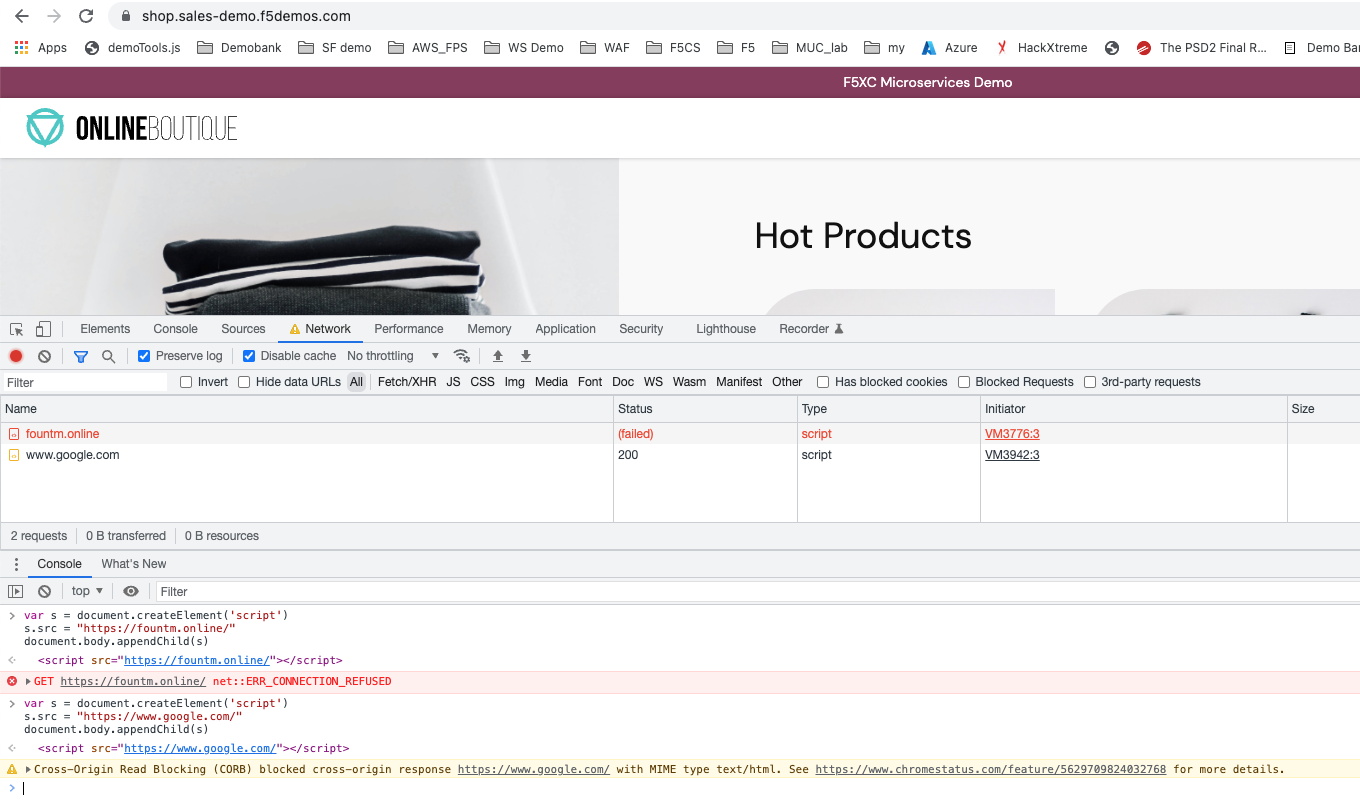
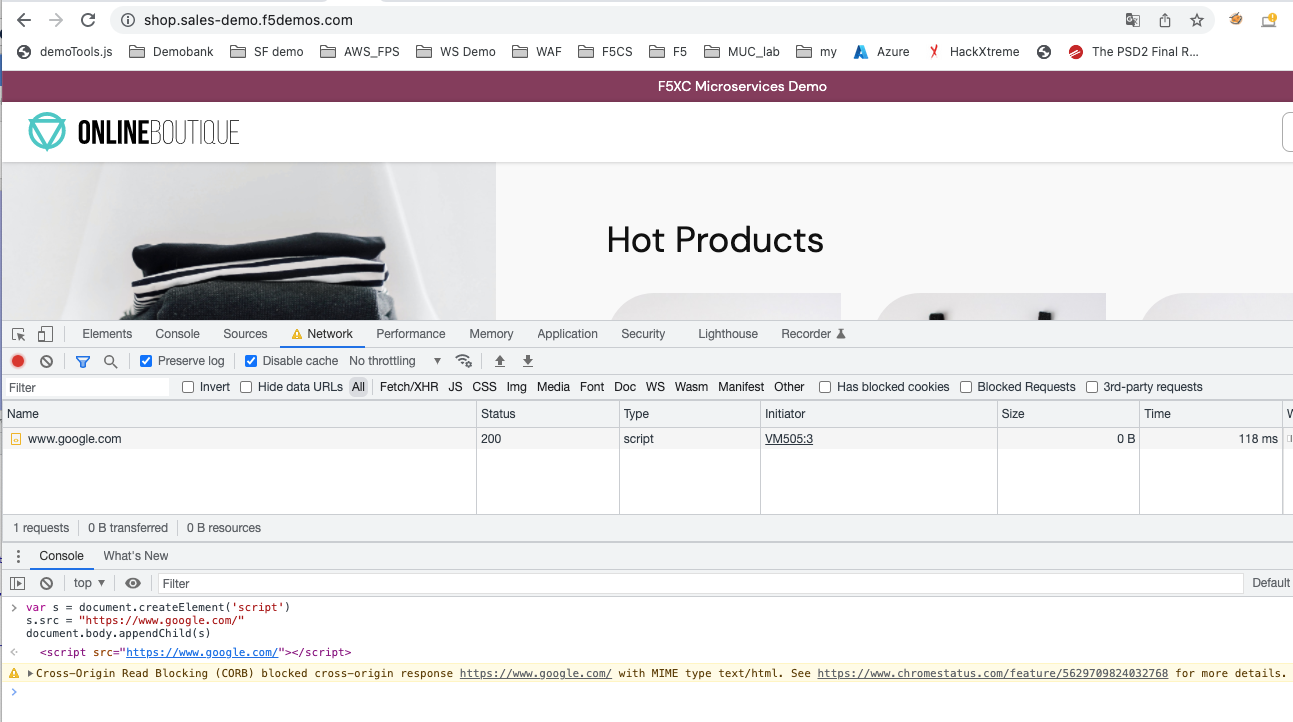
Appendix A and B

diff --git a/csd/lab2.rst b/csd/lab2.rst
@@ -2,18 +2,25 @@ Using the Client Side Defense Dashboard
 =======================================
 
 Lab 2: Mitigate suspicious or allow unsuspicious domains
--------------------------------------------------------------
+--------------------------------------------------------
 
-Login to F5 Distributed Cloud using your own account or f5-sales-demo using the credentials for the read only account from the `f5-sales-demo tenant <https://teams.microsoft.com/l/message/19:45ba7ac2ebb540ecb3b44929aebd7e99@thread.tacv2/1645109960193?tenantId=dd3dfd2f-6a3b-40d1-9be0-bf8327d81c50&groupId=2dc42443-8b46-4694-aa58-defbd3dc8a4b&parentMessageId=1645109960193&teamName=SME-Volterra&channelName=Sales%20Demo%20Tenant%20Ops&createdTime=1645109960193>`_ and go to the Client-Side Defense dashboard.
-I recommend to login to the f5-sales-demo account for the next steps of this lab or generate some artificially injections with suspicious domains which is explained in **appendix A** before you start this lab.
-
-.. image:: ../_static/csd-dashboard.png
+Login to F5 Distributed Cloud using your own account or optional for *F5 SEs*, login into the f5-sales-demo tenant using the credentials for the read only account from the `f5-sales-demo tenant <https://teams.microsoft.com/l/message/19:45ba7ac2ebb540ecb3b44929aebd7e99@thread.tacv2/1645109960193?tenantId=dd3dfd2f-6a3b-40d1-9be0-bf8327d81c50&groupId=2dc42443-8b46-4694-aa58-defbd3dc8a4b&parentMessageId=1645109960193&teamName=SME-Volterra&channelName=Sales%20Demo%20Tenant%20Ops&createdTime=1645109960193>`_ and go to the Client-Side Defense dashboard.
 
 |
 
-The CSD Dashboard displays the following tabs that you use for displaying data, and for deciding whether to mitigate or allow a suspicious domain:
+.. note:: I've generated some artificially injections with suspicious domains for the f5-sales-demo tenant to make demos easier. If you use your own website, you can generate some artificially injections with suspicious domains as explained in **Appendix A** at the end of this document, before you continue this lab.
 
-.. image:: ../_static/csd-tabs.png
+|
+
+Once you logged in, click on *Client-Side Defense*.
+
+ .. image:: ../_static/csd-dashboard.png
+
+|
+
+The CSD Dashboard displays the following tabs that you use for displaying data, and for deciding whether to mitigate or allow a suspicious domain.
+
+ .. image:: ../_static/csd-tabs.png
 
 *Suspicious Domains:* When a web page with CSD protection is loaded on the end-user’s browser, scripts running on that web page interact with other domains. The Suspicious Domains list displays a list of the domains that those scripts interact with and which CSD detected to be potentially malicious.
 
@@ -31,16 +38,16 @@ The CSD Dashboard displays the following tabs that you use for displaying data, 
 
  .. image:: ../_static/csd-suspicious-domains.png
 
- .. note:: You see suspicious domains when you login to the f5-sales-demo tenant but you probably won't see them when you use your own environment with no live traffic. Please see the **appendix A** to generate artificially suspicious domain entries.
+ .. note:: You will see suspicious domains when you login to the *f5-sales-demo* tenant but you probably won't see them when you use your own website with no live traffic. Please see the **Appendix A** at the end of this document to generate artificially suspicious domain entries.
   
 |
 
 2. Adding a domain to the Mitigate List or Allow List
    
- Go to the row of the relevant domain and select the appropriate action on the right by clicking on the three dots. Our example shows how to add the domain jqwereid.online to the Mitigate List. It goes first in the state Added to Mitigated List (green) and change after some time to status Mitigated (blue). 
- Alternatively, you can add domains manually to the Mitigate List or Allow List by going to the Mitigate List or Allow List at the top and, click on Add domain and enter the domain name.
+ Go to the row of the relevant domain and select the appropriate action on the right by clicking on the *three dots*. Our example shows how to add the domain jqwereid.online to the Mitigate List. It goes first in the state Added to Mitigated List (green) and change after some time to status Mitigated (blue). 
+ Alternatively, you can add domains manually to the Mitigate List or Allow List by going to the Mitigate List or Allow List at the top and, click on *Add domain* and enter the domain name.
 
-  .. note:: The monitor user for the f5-sales-com account has read only rights and therefore you can't save your modifications and you will see a 403 forbidden but e.g. the domain fountm-online is already set to mitigated to block requests to this domain which is needed for the next chapter.
+ .. note:: The monitor user for the f5-sales-com account has read only rights and therefore you can't save your modifications and you will see a 403 forbidden but e.g. the domain fountm-online is already set to mitigated to block requests to this domain which is needed for the next chapter.
  
  .. image:: ../_static/csd-mitigate.png
 
@@ -58,7 +65,7 @@ The CSD Dashboard displays the following tabs that you use for displaying data, 
 
 |
 
-3. Show that requests to the mitigated domains are blocked
+3. Show that requests from scripts to the mitigated domains are blocked
  
  Open a browser, go to https://shop.sales-demo.f5demos.com/ and start the browser's DevTools.
 
@@ -68,11 +75,13 @@ The CSD Dashboard displays the following tabs that you use for displaying data, 
    s.src = "https://fountm.online/"
    document.body.appendChild(s)
 
- Press enter and you should see the message  *GET https://fountm.online/ net::ERR_CONNECTION_REFUSED* and the request shows up in the network tab with the *status failed*
+ Press enter and you should see a message like in the screenshot below and no request in the network tab.
 
  .. image:: ../_static/csd-block-susp-domain.png
 
-4. Show that other requests from the browser (script) are still allowed
+|
+
+4. Show that requests from scripts to benign domains are allowed
 
  Copy & paste the following code into the console::
 
@@ -86,9 +95,80 @@ The CSD Dashboard displays the following tabs that you use for displaying data, 
 
 |
 
-5. Appendix - Generate artificially suspicious domains
+Appendix A - Artificially generate suspicious domains
+=====================================================
+
+1. Navigate to a website like https://db.aa419.org/fakebankslist.php to look for fake sites.
+
+ .. note:: **DISCLAIMER:** artists against 419 ("aa419") identifies fraudulent websites and makes this data available as a public service. We discourage any form of communication with these websites. If you chose to communicate with them you do so at your own risk.
+
+2. Use any of the following methods to add the code below to the html code of your testing website.
+
+ - Local overrides in Chrome Developer Tools as described in **Appendix B** at the end of this document.
+ - Local proxy like Charles proxy
+ - Or just add the code to your testing web site but don't foget to remove it after the test.
+
+.. note:: For demoing purposes, we have added already a similar code as shown below to the sales demo app https://shop.sales-demo.f5demos.com/. You can verify it by viewing the source code of the web page.
+
+ You can use the code as shown below with the fake domains or replace the fake domains with the ones you want to use for the test::
+  </script><script>(function(){var s=document.createElement("script");var domains=["ganalitis.com","ganalitics.com","gstatcs.com","webfaset.com","fountm.online","pixupjqes.tech","jqwereid.online"];for (var i=0; i < domains.length; ++i){s.src="https://" + domains[i];}})();</script>
+
+ .. note:: The browser doesn't send a request to the specified domains by adding or injecting the code as shown above.
+
+|
+
+ Example what you should see when you view the source code of the page.
+
+ .. image:: ../_static/csd-view-source-color.png
+
+|
 
 
-</script><script>(function(){var s=document.createElement("script");var domains=["ganalitis.com","ganalitics.com","gstatcs.com","webfaset.com","fountm.online","pixupjqes.tech","jqwereid.online"];for (var i=0; i < domains.length; ++i){s.src="https://" + domains[i];}})();</script>
+Appendix B - Injection using local Overrides in Chrome
+======================================================
 
-https://db.aa419.org/fakebankslist.php
+.. note:: This injection method can be used to inject code locally on your browser. The following example shows you how to inject code to artificially generate suspicious domains but of course you can also inject the CSD JavaScript from your tenant in addition, to test for instance a website you don't own. **The DevTools need to be kept open for the test.**
+
+Set up local Overrides in Chrome DevTools
+-----------------------------------------
+
+#. Open Chrome DevTools.
+#. Click on the *Sources* tab.
+#. Click on the *Overrides* tab.
+#. Click on *Select folder for overrides*.
+
+ .. image:: ../_static/csd-select-folder-overrides.png
+
+|
+
+5. Select which directory you want to save your changes to.
+#. At the top of your window, click **Allow** to give DevTools read and write access to this directory.
+#. Make sure *"Enable Local Overrides"* is checked.
+
+ .. image:: ../_static/csd-select-folder-overrides-selected.png
+
+|
+
+8. Click on the *Network tab*.
+#. Open the page, in this example https://arcadia.emea.f5se.com/
+#. Select the page or a file like index.html that you want to override. In our example "arcadia.emea.f5se.com". Just refresh if you don’t see it in the network tab.
+
+ .. image:: ../_static/csd-select-page.png
+
+|
+
+11. Right click on the code on the right side and select "Save for overrides".
+
+ .. image:: ../_static/csd-save-for-overrides.png
+
+|
+
+#. Make your code changes on the right side.
+ 
+ .. image:: ../_static/csd-add-injection-code.png
+
+|
+
+#. **And make sure you save your changes afterwards e.g. with Ctrl+S or Command+S!**
+
+.. note:: You won't see the overwritten code when you click on *view source code* in the page. If you want to check if the overwrite works, you can e.g. modifiy a title or a text on the page to see the changes on the screen.

diff --git a/csd/start-csd-intro.rst b/csd/start-csd-intro.rst
@@ -9,9 +9,9 @@ Prerequisites
 
 1. An account for F5 Distributed Cloud and a tenant with Client-Side Defense add-on capability provisioned.
 
-2. An application which is accessible via the internet and where you can add the JavaScript the website. Alternativeley you can find instructions how to inject the JavaScript for testing purposes with the Chrome browser.
+2. A website that is accessible via the internet and where you have the rights to add the JavaScript tag. Alternativeley you can find instructions in the Appendix how to inject the JavaScript tag for testing purposes with the Chrome browser.
   
-For *F5 SEs* the JavaScript was already added to the demo application and you can find the detais and login instructions for the f5-sales-demo tenant further down in the lab guide. 
+For *F5 SEs* the JavaScript tag was already added to the demo application and you can find the detais and login instructions for the f5-sales-demo tenant further down in the lab guide. 
 
 You can sign up for a free account for the F5 Distributed Cloud in case you don't have an account yet by following the `sign up description <https://github.com/f5devcentral/f5-waap/blob/main/step-1-signup-deploy/voltConsole.rst>`_ or just go directly to the `sign up page <https://console.ves.volterra.io/signup/usage_plan>`_
 
@@ -21,17 +21,17 @@ What we'll learn
 
 During this hands-on lab you will learn about the following: 
 
-- High level introduction in the use case of Client Side Defense (CSD)
+- High level introductions for the use case of Client Side Defense (CSD)
 - Log into the F5 XC Console
-- Configure CSD, logging and add the JavaScript to the web server
+- Configure CSD, setup logging and add the JavaScript tag to the web server
 - Check if the telemetry data are sent to F5
 - Using the Client Side Defense dashboard to mitigate suspicious domains
-- Show that requests to suspicious domains are blocked
+- Show that requests from the browser to suspicious domains are blocked
 
 Lab Environment
 ---------------
 
-During this lab you can use your own F5 Distributed Cloud account and your own application (origin server) that you are going to protect with CSD. Alternatively you can also use the F5 sales-demo application where we already added the requird JavaScript tag for CSD https://shop.sales-demo.f5demos.com.
+During this lab you can use your own F5 Distributed Cloud account and your own application (origin server) that you are going to protect with CSD. Alternatively you can also use the F5 sales-demo application https://shop.sales-demo.f5demos.com where I've already added the required JavaScript tag for CSD. 
 
 |
 
@@ -43,7 +43,7 @@ F5 Distributed Cloud Client Side Defense: Prevent Skimming and Formjacking
 --------------------------------------------------------------------------
 Like credit card skimming in the physical world, cybercriminals have developed attacks to take ownership of legitimate websites and install digital skimming to steal credit card numbers, social security numbers, national identity numbers, names, addresses, login credentials, and other personally identifiable information.
 
-Chief information security officers (CISOs) face a client-side security gap that puts their customers’ privacy and financial well-being at risk. With Magecart-like criminal attacks against websites causing massive breaches, government fines, and loss of customer confidence, the challenge of keeping customers safe online needs urgent attention.
+Chief information security officers (CISOs) face a client-side security gap that puts their customers privacy and financial well-being at risk. With Magecart-like criminal attacks against websites causing massive breaches, government fines, and loss of customer confidence, the challenge of keeping customers safe online needs urgent attention.
 
 Client-Side Monitoring, Detection, and Mitigation
 -------------------------------------------------

diff --git a/csd/lab1.rst b/csd/lab1.rst
@@ -2,7 +2,7 @@ Base Configuration of CSD
 ===========================
 
 Lab 1: Configure CSD and add the JavaScript tag to the web server
--------------------------------------------------------------
+-----------------------------------------------------------------
 
 1. Login
  
@@ -22,13 +22,21 @@ Lab 1: Configure CSD and add the JavaScript tag to the web server
 
 |
 
- And enable Client-Side Defense. No worries if somebody else from the thenant enabled it already.
+ And enable Client-Side Defense. No worries if another user of the same tenant enabled it already.
 
  .. image:: ../_static/csd-enable.png
 
 |
 
 3. Add the JavaScript tag to **your** web server
+
+
+ .. note:: | For F5 SEs, who don't have a webserver available to add the CSD JavaScript tag:
+    
+     The CSD JavaScript tag was already added, for demo purposes, to the demo-app https://shop.sales-demo.f5demos.com hosted on the F5 Distributed Cloud with the CSD JavaScript tag from the *f5-sales-demo* tenant.
+     Please check this F5 internal channel for the credentials to login to the `f5-sales-demo tenant <https://teams.microsoft.com/l/message/19:45ba7ac2ebb540ecb3b44929aebd7e99@thread.tacv2/1645109960193?tenantId=dd3dfd2f-6a3b-40d1-9be0-bf8327d81c50&groupId=2dc42443-8b46-4694-aa58-defbd3dc8a4b&parentMessageId=1645109960193&teamName=SME-Volterra&channelName=Sales%20Demo%20Tenant%20Ops&createdTime=1645109960193>`_ as a read only user.
+
+|
 
  Click on "Configuration" - "How to Inject JS" and follow step *1 - 3* on the right for adding the JavaScript tag to **your** webpage between the <head> and </head> tags. Step 4 - 5 is explained below.
 
@@ -38,7 +46,7 @@ Lab 1: Configure CSD and add the JavaScript tag to the web server
      
 |
 
- After you have added the JavaScript tag to your web server, continue with step 4 from the screenshot above by adding the domain to protect, in our example f5demos.com.
+ After you have added the JavaScript tag to your web server, continue with step 4 from the screenshot above by adding the domain to protect. In our example f5demos.com.
 
  .. image:: ../_static/csd-domain-protect.png
  
@@ -55,12 +63,6 @@ Lab 1: Configure CSD and add the JavaScript tag to the web server
  Enter the URL where you have added the JavaScript tag to your web server, click "Test JS Injection" and you should see "JS successfully detected". In our example it is https://shop.sales-demo.f5demos.com.
 
  .. image:: ../_static/csd-js-test2.png
-
-|
-
- .. note:: The CSD JavaScript tag was already added for demo purposes to the demo-app https://shop.sales-demo.f5demos.com hosted on the F5 Distributed Cloud with the CSD JavaScript tag from the f5-sales-demo tenant.
-
- Please check this F5 internal channel for the credentials to login to the `f5-sales-demo tenant <https://teams.microsoft.com/l/message/19:45ba7ac2ebb540ecb3b44929aebd7e99@thread.tacv2/1645109960193?tenantId=dd3dfd2f-6a3b-40d1-9be0-bf8327d81c50&groupId=2dc42443-8b46-4694-aa58-defbd3dc8a4b&parentMessageId=1645109960193&teamName=SME-Volterra&channelName=Sales%20Demo%20Tenant%20Ops&createdTime=1645109960193>`_.
 
 |
 
@@ -83,6 +85,11 @@ Lab 1: Configure CSD and add the JavaScript tag to the web server
 
  .. image:: ../_static/csd-alert-receiver-details.png
 
+|
+
+ Example for an alert email
+ 
+ .. image:: ../_static/alert-email.png
 
 |
 
